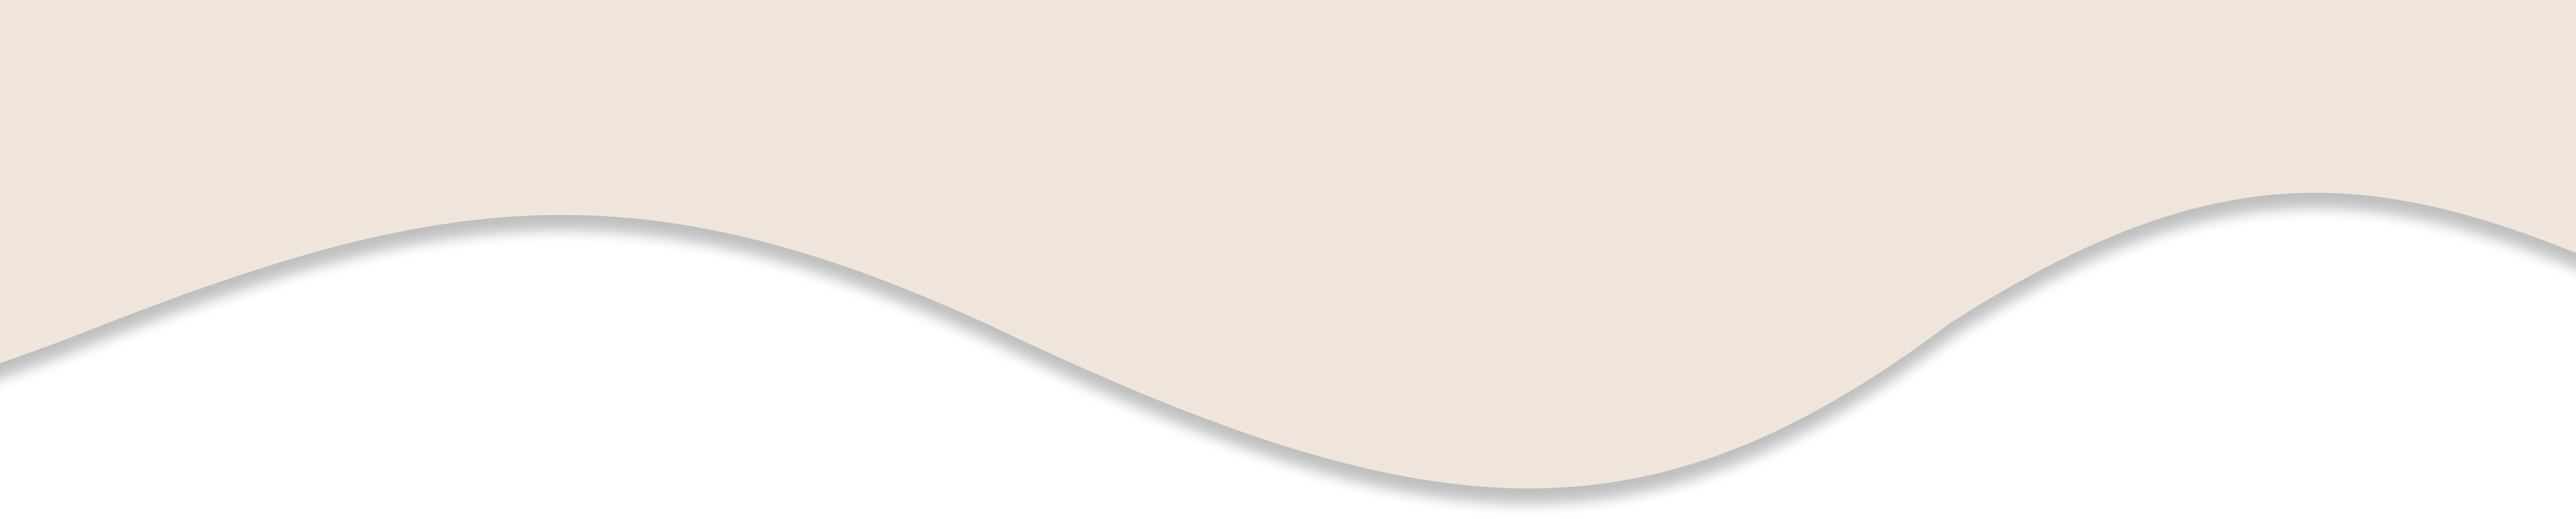
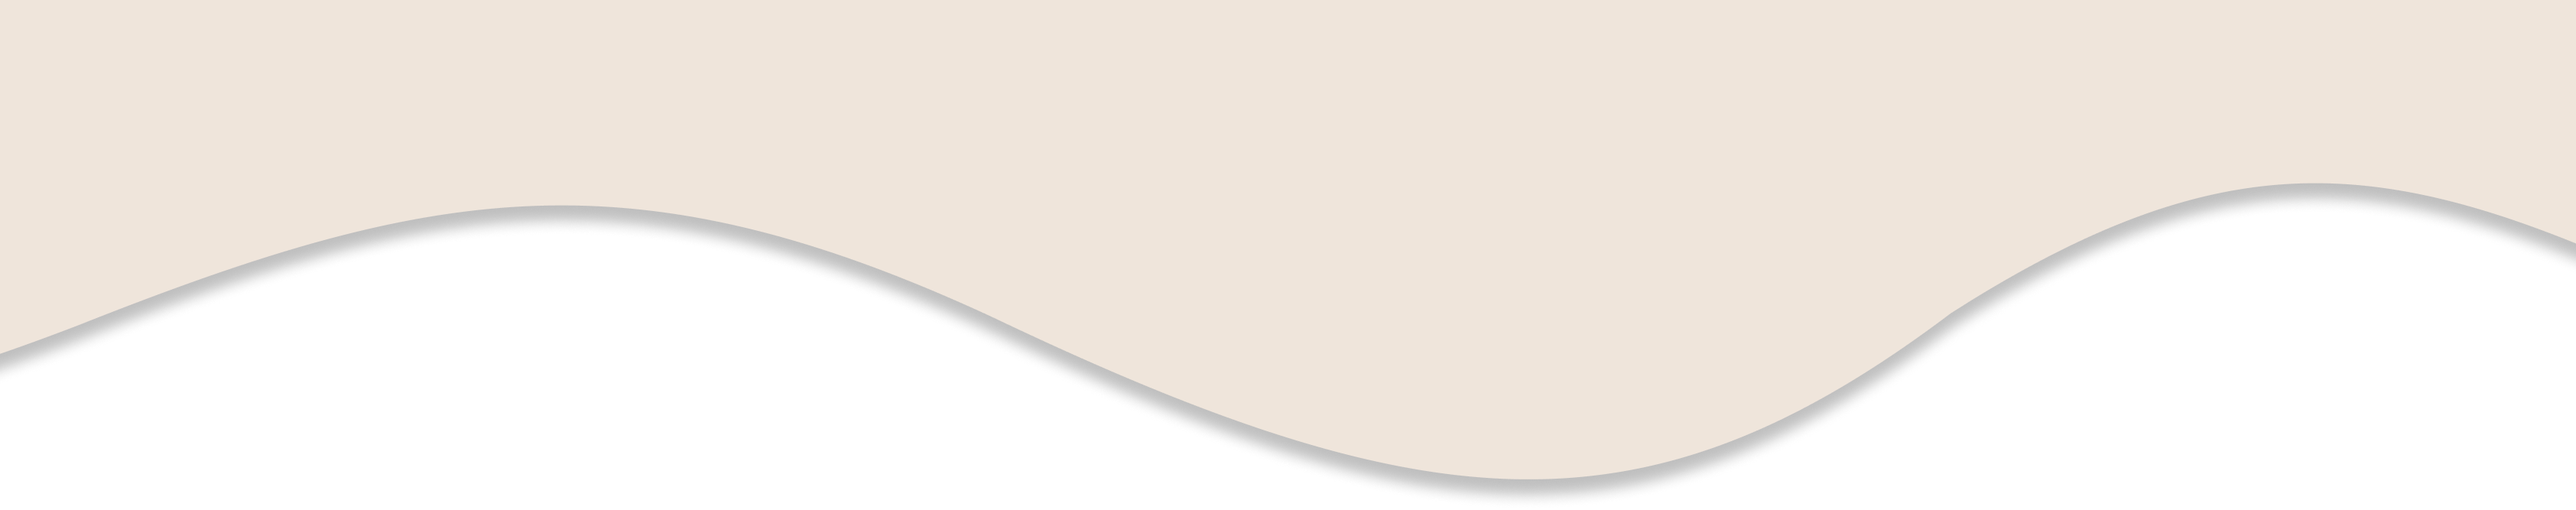
skaleret index side til tablet

diff --git a/css/styles.scss b/css/styles.scss
@@ -158,50 +158,50 @@ $theme-colors: map-merge($theme-colors, $custom-colors);
 	align-items: center;
 }
 
-.shape-box-5 {
-	width: 230px;
-	height: 230px;
-
-	margin: 0 auto;
-
-	background: url("../shapes/picture-shape-creative.png") center center no-repeat;
-
-	background-size: contain;
-
-	display: flex;
-	justify-content: center;
-	align-items: center;
+.shape-wrapper {
+	position: relative;
+	min-height: 700px;
 }
 
-.shape-box-6 {
-	width: 230px;
-	height: 230px;
-
-	margin: 0 auto;
-
-	background: url("../shapes/picture-shape-alpacha.png") center center no-repeat;
-
-	background-size: contain;
-
-	display: flex;
-	justify-content: center;
-	align-items: center;
-}
-
+/* fælles styles */
+.shape-box-5,
+.shape-box-6,
 .shape-box-7 {
 	width: 230px;
 	height: 230px;
 
-	margin: 0 auto;
-
-	background: url("../shapes/picture-shape-outdoors.png") center center no-repeat;
-
 	background-size: contain;
+	background-repeat: no-repeat;
+	background-position: center;
 
 	display: flex;
 	justify-content: center;
 	align-items: center;
+
+	position: absolute;
 }
+
+/* billeder */
+.shape-box-5 {
+	background-image: url("../shapes/picture-shape-creative.png");
+}
+
+.shape-box-6 {
+	background-image: url("../shapes/picture-shape-alpacha.png");
+}
+
+.shape-box-7 {
+	background-image: url("../shapes/picture-shape-outdoors.png");
+}
+
+/* mobil */
+.shape-box-5,
+.shape-box-6,
+.shape-box-7 {
+	position: static;
+	margin: 0 auto 2rem auto;
+}
+
 
 .shape-content {
 	text-align: center;
@@ -309,6 +309,43 @@ $theme-colors: map-merge($theme-colors, $custom-colors);
 
 	.front-page-shape-text{
 		font-size: 19px;
+	}
+
+
+	.shape-wrapper {
+		min-height: 650px;
+		margin-top: -2px;
+	}
+
+	.shape-box-5,
+	.shape-box-6,
+	.shape-box-7 {
+		position: absolute;
+		margin: 0;
+		width: 300px;
+		height: 300px;
+	}
+
+	/* aktiviteter */
+	.shape-box-5 {
+		top: 20px;
+		left: 80px;
+	}
+
+	/* om vedelsbo */
+	.shape-box-6 {
+		top: 100px;
+		right: 70px;
+	}
+
+	/* arbejdsmetoder */
+	.shape-box-7 {
+		top: 320px;
+		left: 120px;
+	}
+
+	.wave-minus-two-px{
+		margin-top: -2px;
 	}
 
 	.footer{

diff --git a/index.php b/index.php
@@ -147,13 +147,13 @@ require "settings/init.php";
 
 <!--beige normal wave-->
 <div class="bg-sage-green" aria-hidden="true">
-    <img src="waves-phone/beige-normal-wave.png" class="waves img-fluid  p-0 m-0" alt="">
+    <img src="waves-tablet/beige-normal-wave.png" class="waves img-fluid  p-0 m-0" alt="">
 </div>
 
-<!--shapes: aktviteter, om vedelsbo, arbejdsmetoder-->
-<div class="bg-sage-green">
+<!--shapes-->
+<div class="bg-sage-green shape-wrapper">
 
-    <!--aktviteter-->
+    <!--aktiviteter-->
     <div class="shape-box-5">
 
         <div class="shape-content">
@@ -176,7 +176,7 @@ require "settings/init.php";
     </div>
 
     <!--arbejdsmetoder-->
-    <div class="shape-box-7">
+    <div class="shape-box-7 mb-0">
 
         <div class="shape-content">
             <a href="arbejdsmetoder-forside.php"
@@ -185,15 +185,16 @@ require "settings/init.php";
             </a>
         </div>
     </div>
+
 </div>
 
 <!--green normal wave-->
-<div class="bg-background" aria-hidden="true">
-    <img src="waves-phone/green-normal-wave.png" class="waves img-fluid  p-0 m-0" alt="">
+<div class="bg-background wave-minus-two-px" aria-hidden="true">
+    <img src="waves-tablet/green-normal-wave.png" class="waves img-fluid  p-0 m-0" alt="">
 </div>
 
 <!--citat + knap til "en boboers tanker"-->
-<div class="container d-flex justify-content-center align-items-center pt-5 en-beboers-tanker-borger-forside">
+<div class="container d-flex justify-content-center align-items-center pt-5 en-beboers-tanker-borger-forside mt-md-2">
 
     <div class="row justify-content-center text-center w-100 mt-3">
 
@@ -221,14 +222,14 @@ require "settings/init.php";
 
 <!--beige normal wave-->
 <div class="bg-light-brown" aria-hidden="true">
-    <img src="waves-phone/beige-normal-wave.png" class="waves img-fluid  p-0 m-0" alt="">
+    <img src="waves-tablet/beige-normal-wave.png" class="waves img-fluid  p-0 m-0" alt="">
 </div>
 
 <!--indsend spørgsmål sektion-->
-<div class="bg-light-brown">
+<div class="bg-light-brown ">
     <div class="container d-flex justify-content-center align-items-center">
 
-        <div class="row justify-content-center px-1">
+        <div class="row justify-content-center px-1 px-md-5 pb-md-3">
 
             <div class="col-12 col-lg-8">
 
@@ -246,8 +247,8 @@ require "settings/init.php";
         </div>
     </div>
 
-    <div class="px-4">
-        <div class="row">
+    <div class="px-4 px-md-5 mx-md-5 pb-md-3">
+        <div class="row ">
             <div class="col pb-2 pt-2">
                 <input type="text" class="form-control inter font-twelve bg-off-white" placeholder="Fornavn"
                        aria-label="Fornavn">
@@ -280,8 +281,8 @@ require "settings/init.php";
 </div>
 
 <!--bottom-wave-->
-<div class="bg-dark-green" aria-hidden="true">
-    <img src="waves-phone/light-brown-normal-wave.png" class="waves img-fluid  p-0 m-0" alt="">
+<div class="bg-dark-green wave-minus-two-px" aria-hidden="true" style="margin-top: -2px">
+    <img src="waves-tablet/light-brown-normal-wave.png" class="waves img-fluid wave-minus-two-px p-0 m-0" style="z-index: 100;" alt="" >
 </div>
 
 <?php include 'includes/footer.php'; ?>

diff --git a/includes/footer.php b/includes/footer.php
@@ -115,7 +115,7 @@
 </footer>
 
 <!-- footer til mellem skærm -->
-<footer class="bg-dark-green pt-0 d-none footer d-md-block d-lg-none position-relative" >
+<footer class="bg-dark-green pt-5 mt-0 d-none footer wave-minus-two-px d-md-block d-lg-none position-relative" style="z-index: -100;">
 
     <!--background logo-->
     <div aria-hidden="true" class="d-flex justify-content-end">
@@ -214,7 +214,7 @@
 
 
 <!-- footer til stor skærm -->
-<footer class="bg-dark-green pt-0 d-none footer d-lg-block position-relative" >
+<footer class="bg-dark-green pt-0 d-none footer d-lg-block position-relative" style="z-index: -100">
 
     <!--background logo-->
     <div aria-hidden="true" class="d-flex justify-content-end">
